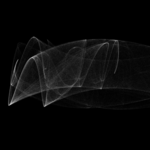
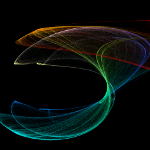
new fractal giffys

diff --git a/index.html b/index.html
@@ -97,7 +97,7 @@
 
               <!-- Fractals -->
 	      <div class="single">
-                <a href="images/code/fractal.jpg" rel="lightbox[code]" title="In Progress: Genetic Reproduction of Aesthetically-Pleasing Attractor Fractals. <a href='https://github.com/kyeah/Genetic-Fractals'>(L)</a><br><h6>With Tyler Yates (UT Freshman Research Initiative: Computational Intelligence)</h6>" ><img src="images/code/thumb-fractal.png" alt="The Graphinator" /></a>
+                <a href="images/code/fractal.gif" rel="lightbox[code]" title="In Progress: Genetic Reproduction of Aesthetically-Pleasing Attractor Fractals. <a href='https://github.com/kyeah/Genetic-Fractals'>(L)</a><br><h6>With Tyler Yates (UT Freshman Research Initiative: Computational Intelligence)</h6>" ><img src="images/code/thumb-fractal.png" alt="The Graphinator" /></a>
               </div>
 
               <!-- Billiards -->

diff --git a/blog.html b/blog.html
@@ -48,11 +48,15 @@
       
       <div class="large-10 large-centered columns">
 	<img src="images/blog/blastro_trio.png"/>
-        <h5 style="color:#EEEEEE"></br>
+        <h5 style="color:#EEEEEE; border-bottom:1px solid #aaa"></br>
 	<b>Update: </b> The <a href="https://play.google.com/store/apps/details?id=com.blastro.android">Blastro</a>, <a href="https://play.google.com/store/apps/details?id=com.roxwel.android">Roxwel</a>, 
 and <a href="https://play.google.com/store/apps/details?id=com.yallwire.android">Yallwire</a> apps 
 have been released. Come celebrate with us.
-	</br></br>
+	</br>
+        </br>
+        </h5>
+        </br>
+        <h5 style="color:#EEEEEE">
 	We made it. It's happening. Blastro Networks is finally ready to release their 
 redesigned, 
 rejuvenated android apps, due in large part to the work I did over the summer, and also to the 
